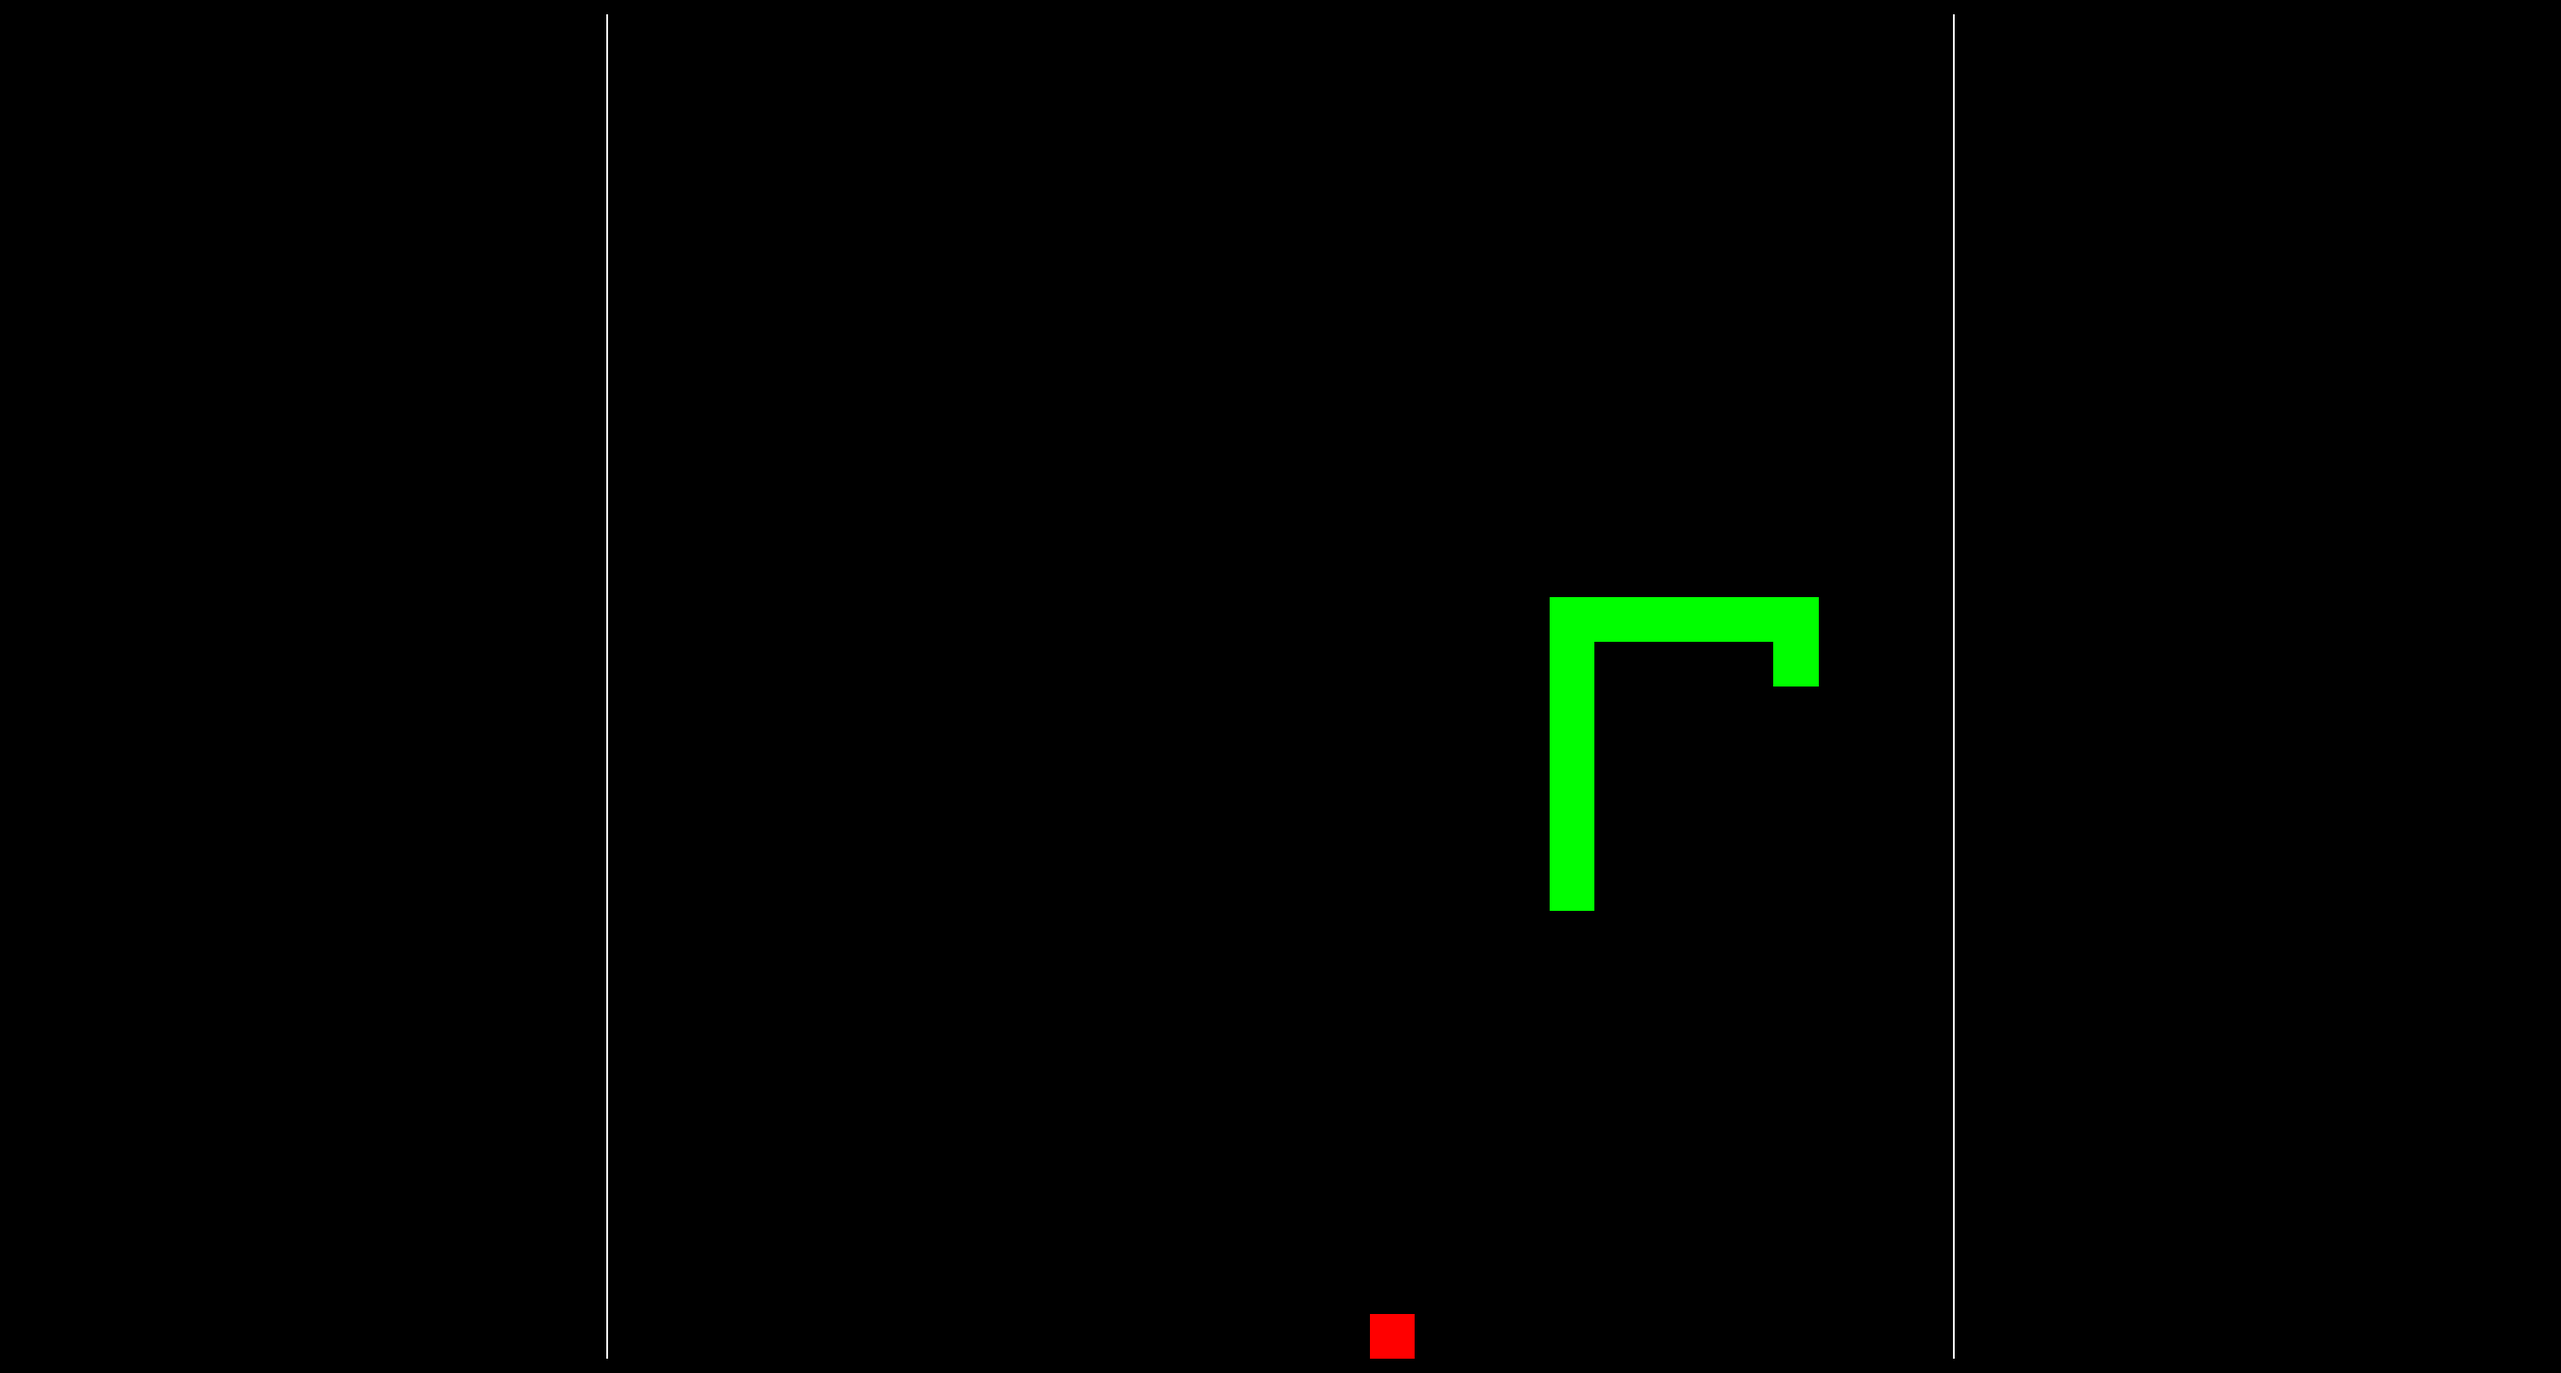
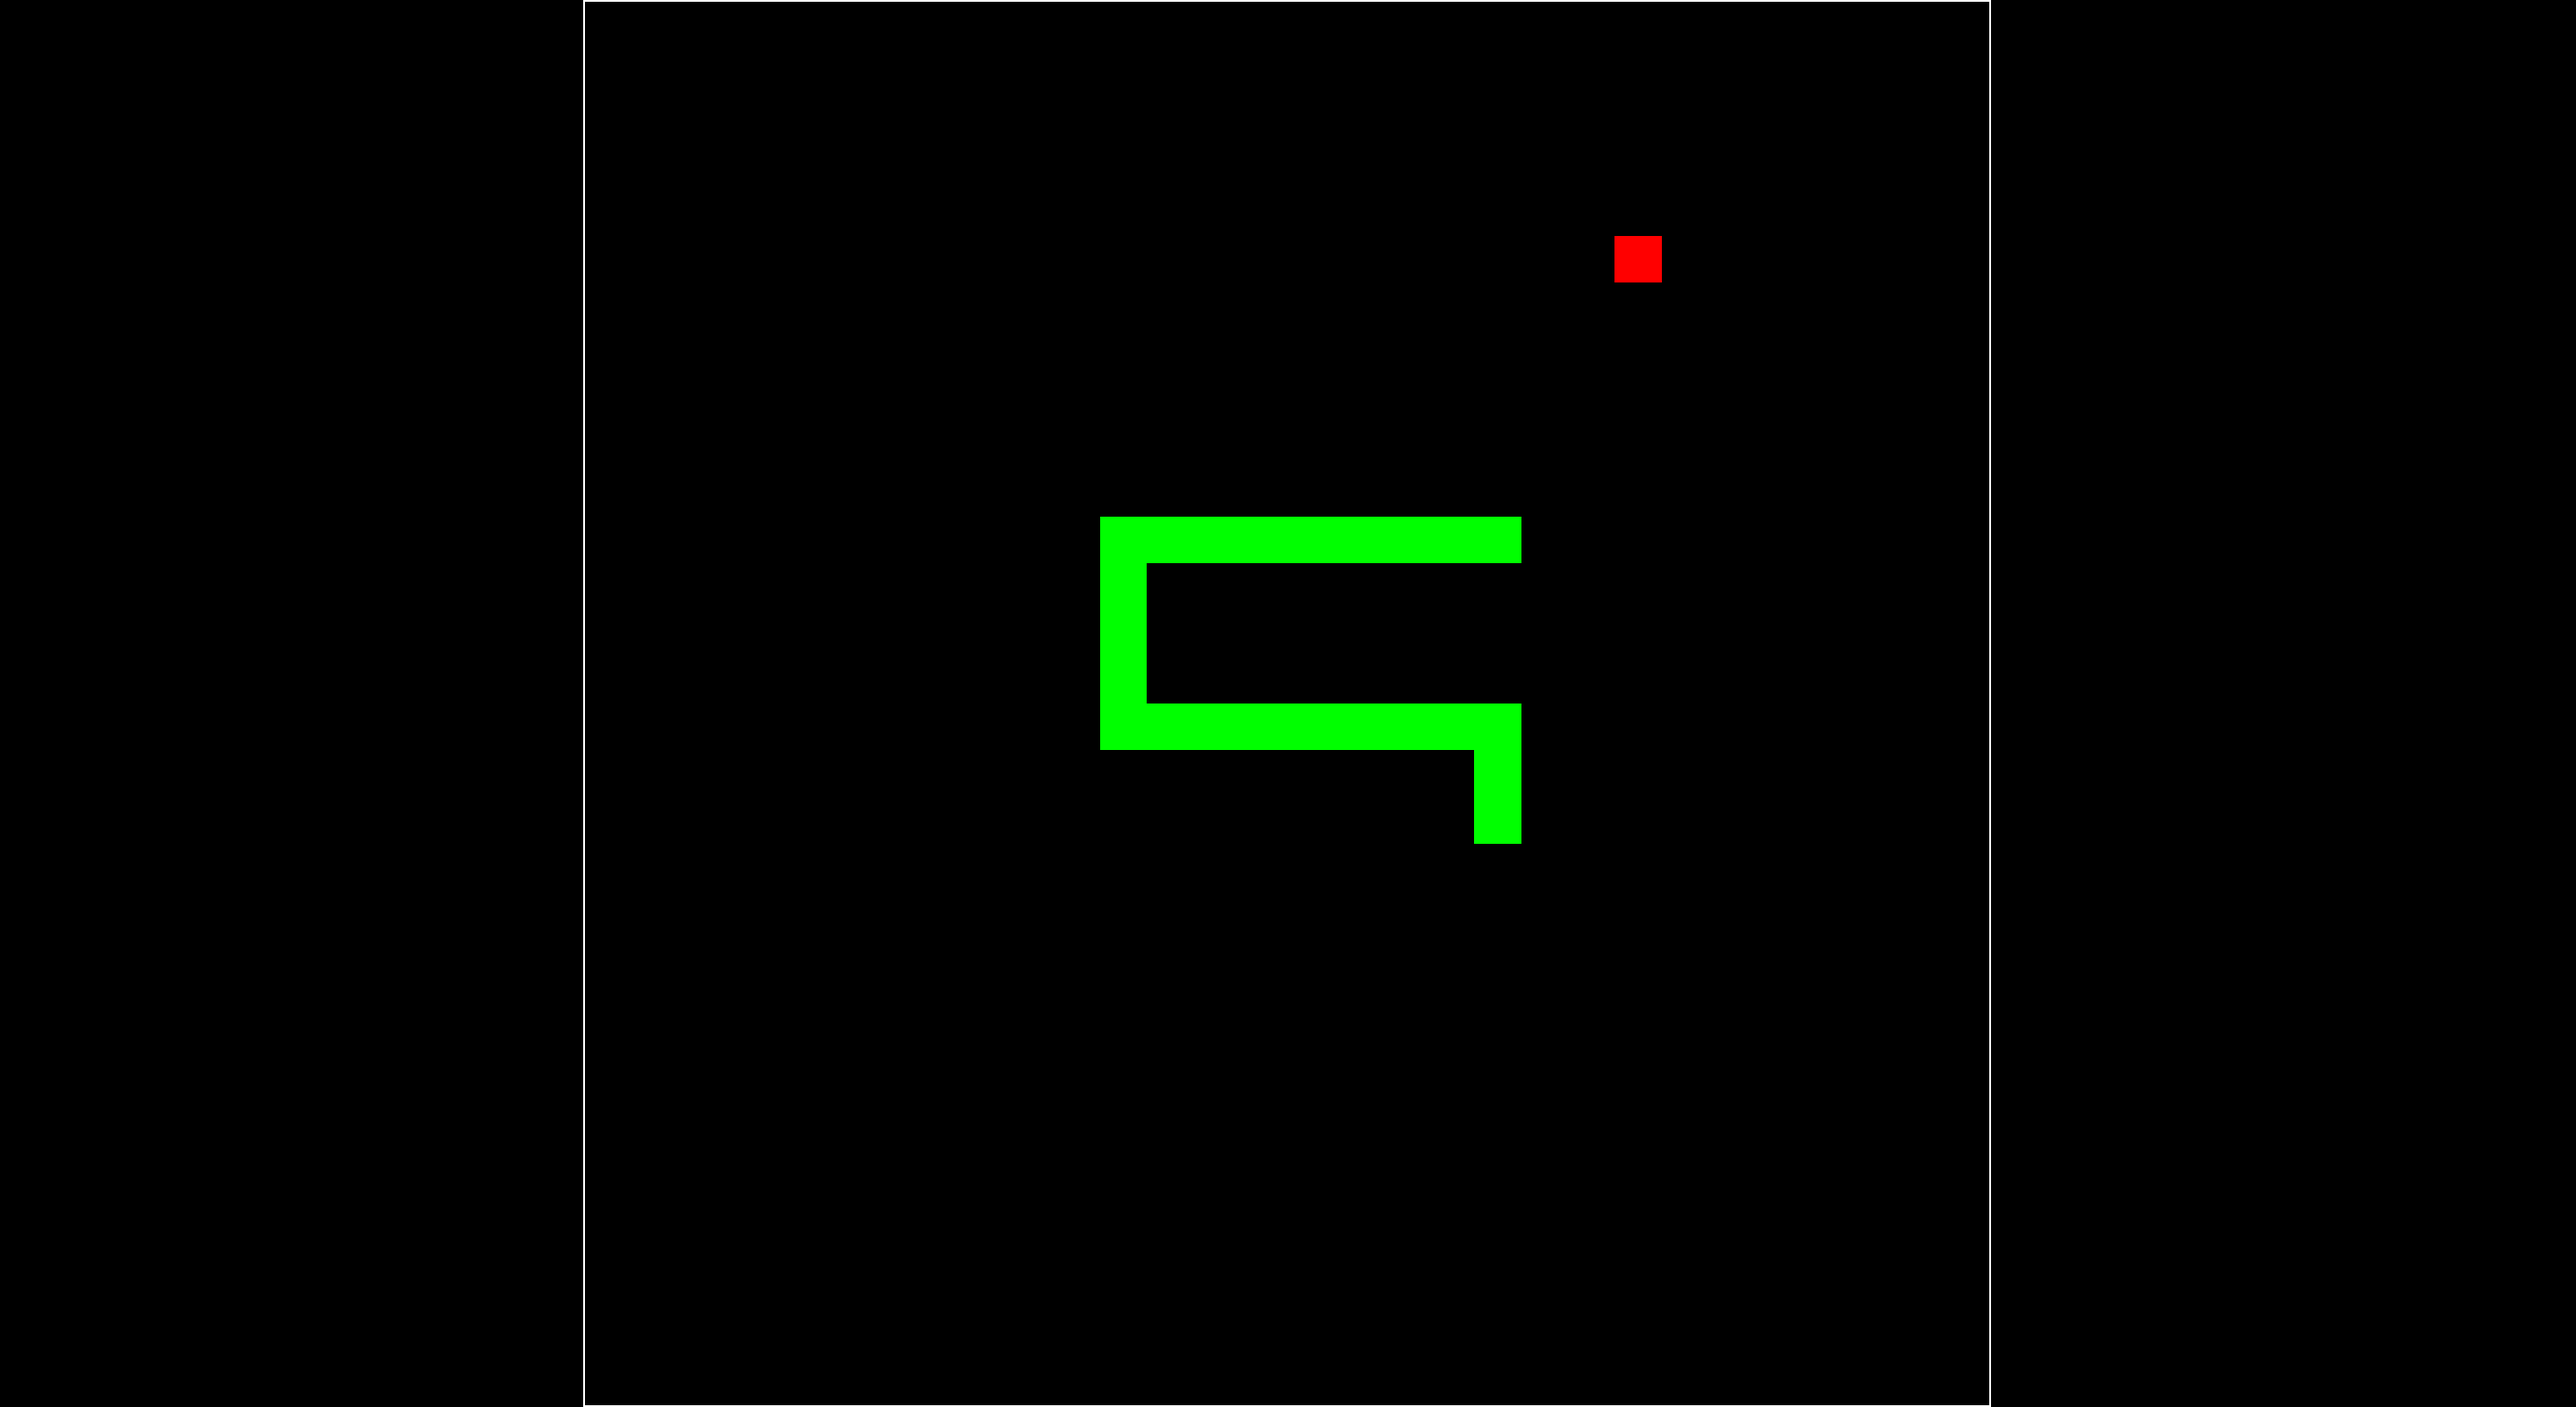
simplify Snake logic

Changed region(s): [[0.404, 0.3438, 0.7147, 0.6875], [0.6215, 0.1562, 0.6526, 0.2188], [0.5283, 0.9375, 0.5594, 1.0]]

diff --git a/src/Snake.js b/src/Snake.js
@@ -3,37 +3,23 @@ import { CONFIG } from "./main.js";
 export class Snake {
 
     constructor(scene) {
-        this.scene = scene;
         this.body = [];
-        this.direction = this.nextDirection = Phaser.Utils.Array.GetRandom([
+        this.direction = Phaser.Utils.Array.GetRandom([
             Phaser.Math.Vector2.UP,   Phaser.Math.Vector2.RIGHT,
             Phaser.Math.Vector2.DOWN, Phaser.Math.Vector2.LEFT
         ]);
+        this.graphics = scene.add.graphics({fillStyle: { color: 0x00ff00 }});
         this.reset();
     }
 
     reset() {
-        const head = new Phaser.GameObjects.Rectangle(
-            this.scene,
+        const head = new Phaser.Math.Vector2(
             Phaser.Math.Between(1, CONFIG.width - 2),
-            Phaser.Math.Between(1, CONFIG.height - 2),
-            1, 1, Snake.#COLOR
-        );
-        const tail = new Phaser.GameObjects.Rectangle(
-            this.scene,
-            head.x - this.direction.x,
-            head.y - this.direction.y,
-            1, 1, Snake.#COLOR
+            Phaser.Math.Between(1, CONFIG.height - 2)
         );
 
-        for (const segment of this.body) {
-            segment.destroy();
-        }
-        this.body = [tail, head];
-        for (const segment of this.body) {
-            segment.setOrigin(0, 0);
-            this.scene.add.existing(segment);
-        }
+        this.body = [head, head.add(this.direction)];
+        this.redraw();
     }
 
     getHead() {
@@ -44,33 +30,33 @@ export class Snake {
         return this.body;
     }
 
-    setNextDirection(nextDirection) {
-        this.nextDirection = nextDirection;
+    setDirection(nextDirection) {
+        if (this.direction !== -nextDirection) {
+            this.direction = nextDirection;
+        }
     }
 
     shrink() {
-        this.body[0].destroy();
         this.body.shift();
+        this.redraw();
     }
 
     grow() {
-        if (this.direction.x !== -this.nextDirection.x || this.direction.y !== -this.nextDirection.y) {
-            this.direction = this.nextDirection;
-        }
-
-        const newHead = new Phaser.GameObjects.Rectangle(
-            this.scene,
-            Phaser.Math.Wrap(this.getHead().x + this.direction.x, 0, CONFIG.width),
-            Phaser.Math.Wrap(this.getHead().y + this.direction.y, 0, CONFIG.height),
-            1, 1,
-            Snake.#COLOR
+        const head = this.getHead();
+        const newHead = new Phaser.Math.Vector2(
+            Phaser.Math.Wrap(head.x + this.direction.x, 0, CONFIG.width),
+            Phaser.Math.Wrap(head.y + this.direction.y, 0, CONFIG.height),
         );
 
-        newHead.setOrigin(0, 0);
-        this.scene.add.existing(newHead);
         this.body.push(newHead);
+        this.redraw();
     }
 
-    static #COLOR = 0x00ff00;
+    redraw() {
+        this.graphics.clear();
+        for (const segment of this.body) {
+            this.graphics.fillRect(segment.x, segment.y, 1, 1);
+        }
+    }
 
 }

diff --git a/src/Game.js b/src/Game.js
@@ -33,7 +33,7 @@ export class Game extends Phaser.Scene {
     handleInput() {
         for (const [key, direction] of this.inputs) {
             if (Phaser.Input.Keyboard.JustDown(key)) {
-                this.snake.setNextDirection(direction);
+                this.snake.setDirection(direction);
             }
         }
     }

diff --git a/README.md b/README.md
@@ -7,8 +7,6 @@
 
 ## How to run
 
-> Note: `git clone --branch inject https...` là nhánh nhập code Apple::reset() từ client
-
 ```bash
 git clone https://github.com/Ka-raS/sneker.git
 cd sneker
@@ -16,43 +14,6 @@ python -m http.server 8000 # or `npx http-server -c-1` or meh
 # open http://localhost:8000
 ```
 
-## Start from Scratch
+## Controls
 
-1. Download Phaser Launcher: https://phaser.io/download/phaser-launcher
-2. Click "New" "Basic" Project in the Launcher
-3. Follow beginner tutorial
-4. ???
-5. Profit
-
-## Ghi chú
-
-Tạo project bằng Launcher sẽ tạo `index.html`, `src/main.js`, `assets`, `phaser.js` (là source cả thư viện Phaser luôn). Tôi xoá gần hết để cho gọn dễ đọc. `index.html` sẽ include luôn `npm/phaser.js`.
-
-> `src/main.js`:
-
-`Phaser.Game()`: của Phaser, tạo đối tượng game
-
-`CONFIG`: của Phaser, `CONFIG.parent` là `#id` của `<div>` trong `index.html`, khi chạy thì `<canvas>` tự đc tạo trong `<div>`.
-
-`CONFIG.scene`: dang sách các `Phaser.Scene()`, tôi có mỗi [`Game extends Phaser.Scene`](./src/Game.js). Khi tạo project mới thì có `Boot` để load assets ảnh nhạc abc, `Preloader` để hiện thanh load game. 
-
-Ngoài ra còn `CONFIG.physics`, có thể là `arcade`, `matter`, `impact`, `ninja` (cũ). https://docs.phaser.io/phaser/concepts/physics. Game này không dùng, sau này dùng thử.
-
-> Thư viện Phaser
-
-Có thể hiểu mỗi `Phaser.Scene` là một màn hình game.
-
-Khi game chạy, Phaser gọi `constructor()` → `init()` → `preload()` → `create()` → `update()` của `Phaser.Scene`. 
-- `constructor()` và `init()` thay thế nhau cũng được, `preload()` thường dùng load assets, 3 cái này chỉ gọi 1 lần
-- `create()` thực ra là kiểu onEnter(), gọi mỗi khi chuyển vào màn hình này
-- `update()` gọi liên tục
-
-Thư viện có `Phaser.Math`, `Phaser.Math.Vector2`, `Phaser.GameObjects`.
-
-`GameObjects`: hiện hình ảnh, text, sprite, bản đồ. Phaser tự vẽ, mình không cần gọi thủ công kiểu `render()`. Ae xem [`Apple extends Phaser.GameObjects.Rectangle`](./src/Apple.js)
-
-> Template của Phaser
-
-https://docs.phaser.io/phaser/getting-started/project-templates
-
-Phaser có vẻ thích React Vite TypeScript. Nhưng vẫn có NextJS
+Snake movement: ← ↑ → ↓
